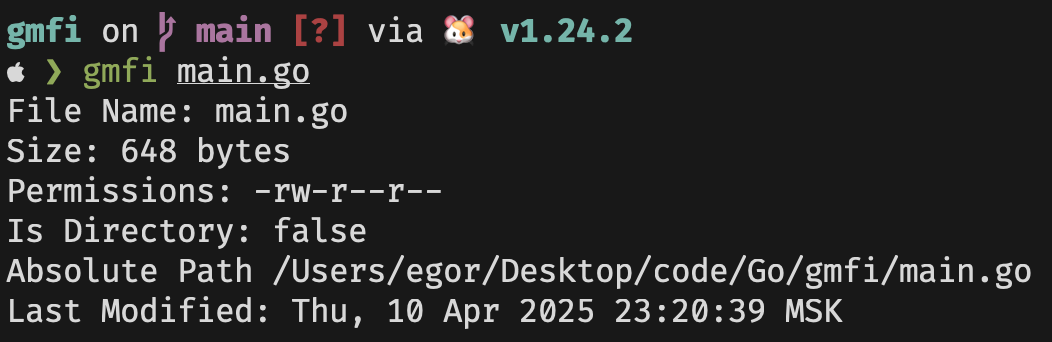
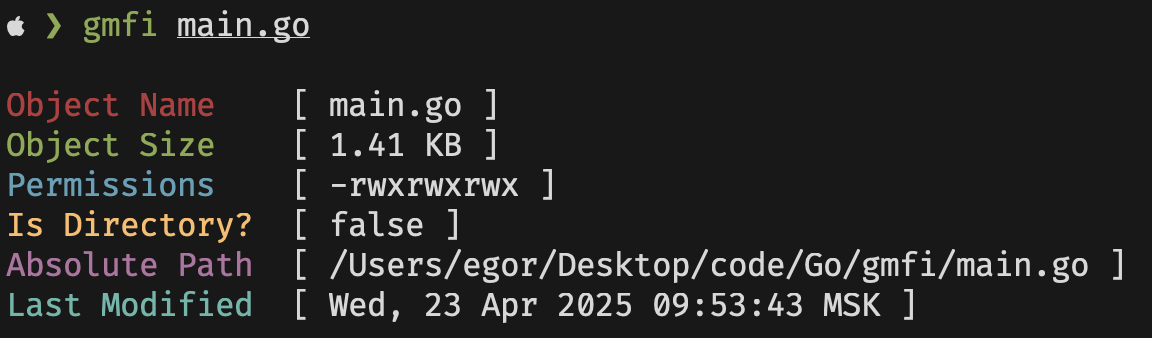
1.1 is here :)

diff --git a/main.go b/main.go
@@ -5,11 +5,21 @@ import (
 	"os"
 	"path/filepath"
 	"time"
+
+	"github.com/jvqtil/gmfi/utils"
+	"github.com/fatih/color"
 )
 
 func main() {
+	red := color.New(color.FgRed).SprintFunc()
+	blue := color.New(color.FgBlue).SprintFunc()
+	green := color.New(color.FgGreen).SprintFunc()
+	yellow := color.New(color.FgYellow).SprintFunc()
+	pink := color.New(color.FgMagenta).SprintFunc()
+	cyan := color.New(color.FgCyan).SprintFunc()
+	
 	if len(os.Args) < 2 {
-		fmt.Println("Usage: gmfi <filename>")
+		fmt.Println("Usage: " + green("gmfi") + blue(" <filename>"))
 		return
 	}
 
@@ -26,11 +36,33 @@ func main() {
 		return
 	}
 
-	fmt.Println("File Name:", info.Name())
-	fmt.Println("Size:", info.Size(), "bytes")
-	fmt.Println("Permissions:", info.Mode())
-	fmt.Println("Is Directory:", info.IsDir())
-	fmt.Println("Absolute Path", absPath)
-	fmt.Println("Last Modified:", info.ModTime().Format(time.RFC1123))
+	file := utils.GetSize(info.Size())
+	
+	// Print all output
+	fmt.Println()
+
+	fmt.Printf("%s %s\n",
+	red(fmt.Sprintf("%-14s", "Object Name ")),
+	utils.Wrap(info.Name()))
+
+	fmt.Printf("%s %s\n", 
+	green(fmt.Sprintf("%-14s", "Object Size ")), 
+	utils.Wrap(file))
+
+	fmt.Printf("%s %s\n", 
+	blue(fmt.Sprintf("%-14s", "Permissions ")), 
+	utils.Wrap(utils.Tostr(info.Mode())))
+
+	fmt.Printf("%s %s\n", 
+	yellow(fmt.Sprintf("%-14s", "Is Directory? ")), 
+	utils.Wrap(utils.Tostr(info.IsDir())))
+	
+	fmt.Printf("%s %s\n", 
+	pink(fmt.Sprintf("%-14s", "Absolute Path ")), 
+	utils.Wrap(absPath))
+
+	fmt.Printf("%s %s\n", 
+	cyan(fmt.Sprintf("%-14s", "Last Modified ")), 
+	utils.Wrap(info.ModTime().Format(time.RFC1123)))
 }
 

diff --git a/utils/main.go b/utils/main.go
@@ -1,0 +1,36 @@
+package utils
+
+import "fmt"
+
+func GetSize(size int64) string {
+	var fSize, unit string
+	switch {
+		case size >= 1024*1024*1024*1024: 
+		fSize = fmt.Sprintf("%.2f", float64(size)/(1024*1024*1024*1024))
+		unit = "TB"
+		case size >= 1024*1024*1024: 
+		fSize = fmt.Sprintf("%.2f", float64(size)/(1024*1024*1024))
+		unit = "GB"
+		case size >= 1024*1024: 
+		fSize = fmt.Sprintf("%.2f", float64(size)/(1024*1024))
+		unit = "MB"
+		case size >= 1024: 
+		fSize = fmt.Sprintf("%.2f", float64(size)/(1024))
+		unit = "KB"
+		default: 
+		fSize = fmt.Sprintf("%d", size)
+		unit = "bytes"
+	}
+
+	file := fmt.Sprint(fSize + " " + unit)
+
+	return file
+}
+
+func Tostr(arg any) string {
+	return fmt.Sprint(arg)
+}
+
+func Wrap(arg string) string {
+	return "[ " + arg + " ]"
+}